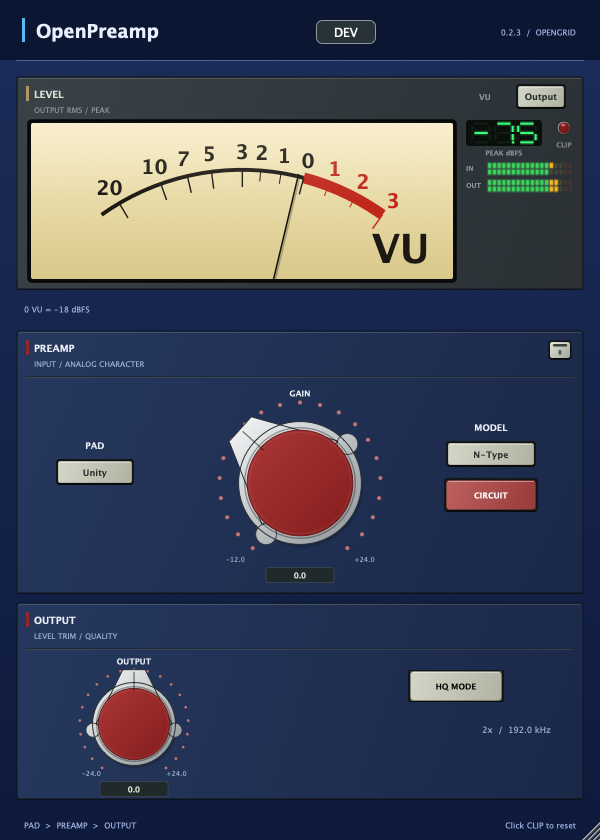
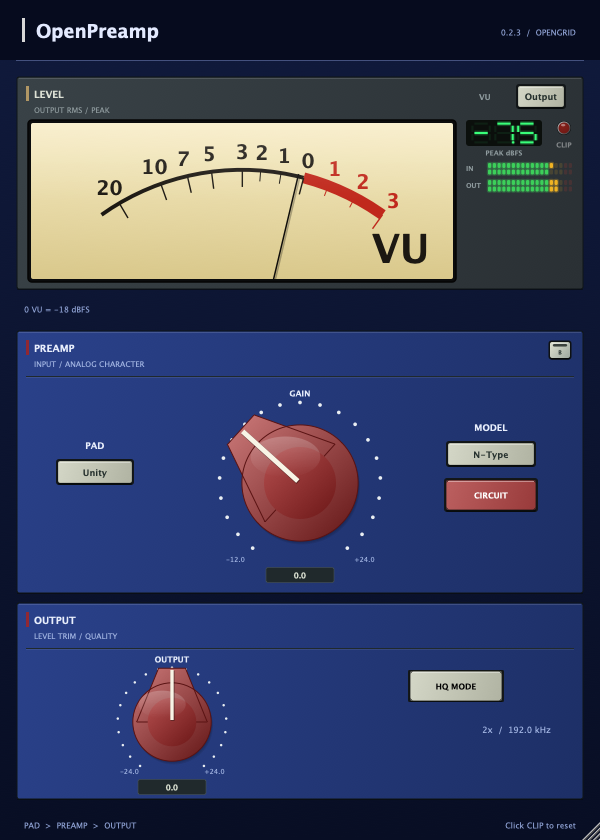
Apply saved OpenPreamp 0.2.3 knob layout and model looks

diff --git a/README.md b/README.md
@@ -10,7 +10,7 @@ without an EQ, spectrum display or separate harmonics engine.
 - **Off / bypass:** no circuit oversampling. Output trim and meters remain active.
 - **600 × 840 editor (5:7):** top VU with input/output selection, stereo input
   and output peak ladders, peak hold and resettable clip lamp. Model changes
-  load HybridEQ's exact saved plate, knob style and color mappings.
+  load OpenPreamp's saved plate, knob style and color mappings.
 - PAD and GAIN combine into a smoothed drive setting. Double-click a gain knob
   to return to 0 dB. Output trim follows the preamp.
 
@@ -30,7 +30,7 @@ and high-frequency rolloff as part of the nonlinear processing.
 ## Build and verify
 
 ```sh
-cmake -S . -B build -DCMAKE_BUILD_TYPE=Release
+cmake -S . -B build -DCMAKE_BUILD_TYPE=Release -DOPENPREAMP_DEVELOPER_MODE=OFF
 cmake --build build --config Release --target OpenPreamp_VST3 OpenPreampSmoke OpenPreampADAA -j 6
 ./build/OpenPreampSmoke_artefacts/Release/OpenPreampSmoke
 ./build/OpenPreampADAA_artefacts/Release/OpenPreampADAA
@@ -57,8 +57,7 @@ The 0.2.3 editor opens at 600 × 840 and resizes proportionally from 450 × 630
 through 1000 × 1400. The VU and output knob are larger, the main gain knob is
 slightly smaller, and PAD/MODEL/CIRCUIT/HQ use narrower buttons.
 
-Developer mode is enabled with `-DOPENPREAMP_DEVELOPER_MODE=ON` (default for this
-working build). Click **DEV** in the header for a separate window with
+Developer mode is enabled with `-DOPENPREAMP_DEVELOPER_MODE=ON` (the option defaults to ON for development). Click **DEV** in the header for a separate window with
 **Knobs / layout** and **Model looks** tabs. Knob edits change label, font,
 style, colour and geometry immediately. Click either knob to select it.
 The model-look tab controls each preamp's plate, faceplate, knob style and colour.
@@ -68,5 +67,6 @@ Edits autosave into `Designs/OpenPreampKnobs.csv` and `Designs/OpenPreampLooks.c
 these files are baked into the next build. Set developer mode OFF for a release
 without the DEV tools or filesystem autosave. Resizing preserves edited geometry.
 
-The 0.2.3 standalone is available for layout editing. Installed comparison VST3s
-remain 0.2.0 and 0.2.2 until a new test installation is requested.
+The developer standalone is available for layout editing. The test VST3 uses
+the saved 0.2.3 design with developer mode OFF; 0.2.0 remains alongside it
+for comparison.

diff --git a/OPENPREAMP_HANDOFF.md b/OPENPREAMP_HANDOFF.md
@@ -6,7 +6,9 @@ knob. Buttons are narrower. The output knob label clears the panel divider.
 
 DEV opens separate GoodLookinUI knob/layout and model-look tools. Geometry and
 looks autosave to the OpenPreamp-specific Designs CSVs and are baked into builds.
-The standalone is the editing artifact; the installed VST3s remain 0.2.0 and 0.2.2.
+The standalone is the editing artifact. The saved-design 0.2.3 VST3 is built
+with developer mode OFF; it replaces the installed 0.2.2. The 0.2.0 comparison
+remains alongside it.
 The 0.2.0 comparison has a separate name and class IDs; its DSP/UI source came
 from c4eda25. Both temporary installed copies must be removed when the owner
 says testing is finished. The receipts are build/OpenPreamp-test-install.json
@@ -15,7 +17,14 @@ and build/OpenPreamp-0.2.0-comparison-install.json. Check hashes before removal.
 Validation: 157 smoke checks passed with zero failures, including proportional
 resizing at 450 × 630, 600 × 840 and 800 × 1120, model looks and the DEV window.
 GUI and developer-window previews are saved in Docs/. The standalone built
-successfully; no new VST3 was installed.
+successfully. The saved-design Release VST3 built successfully. With developer mode OFF,
+156 smoke checks passed, with zero failures, including all model looks and
+resizing. Both CSVs were verified against the baked design data. The test
+installation is 0.2.3; its removal remains deferred until the owner finishes testing.
+
+Saved design changes: output trim at (90, 50); Brit magenta/Brit knobs;
+N-Type Mic knobs with Midnight faceplate/Navy plates; FSF Navy faceplate;
+A-Type Granite faceplate. The DSP remains unchanged.
 
 The processing notes below describe the inherited 0.2.2 DSP and its validation.
 
